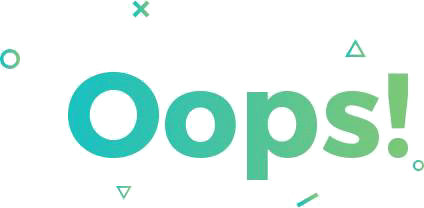
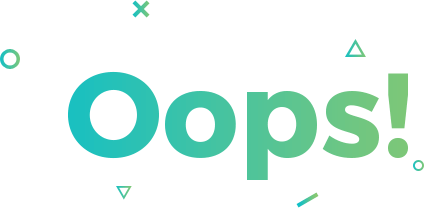
更新首页配置，更新webpack

diff --git a/docs/.vuepress/theme/components/Home.vue b/docs/.vuepress/theme/components/Home.vue
@@ -16,7 +16,7 @@
         alt="hero"
       />
 
-      <h1 v-if="data.isShowTitleInHome !== false">{{ data.heroText || $title || '午后南杂' }}</h1>
+      <h1 v-if="data.isShowTitleInHome !== false">{{ data.heroText || $title || '程禹铭' }}</h1>
 
       <p
         class="description"
@@ -98,7 +98,7 @@ export default {
     text-align: center;
 
     img {
-      background-color: $accentColor;
+      // background-color: $accentColor;
     }
 
     h1 {

diff --git a/docs/views/webpack/index.md b/docs/views/webpack/index.md
@@ -28,7 +28,7 @@ tags:
 
 - 让 `webpack` 正常启动需要最少需要两个 `npm` 包，`webpack、webpack-cli`
 
-### 一、entry 
+### 一、entry
 
 > webpack 是采用模块化的思想，所有的文件或者配置都是一个个的模块， 同时所有模块联系在一起，可以理解为就是一个简单的树状结构，那么最顶层的入口是什么呢？答案就是 `entry`， 所以， `webpack` 在执行构建的时候， 第一步就是找到入口，从入口开始，寻找，遍历，递归解析出所有入口依赖的模块。
 
@@ -53,7 +53,7 @@ tags:
   },
 ```
 
-### 二、output 
+### 二、output
 
 - `output` 是一个对象，里面包含一些列输出配置项
 - 常用的语法如下：
@@ -69,7 +69,7 @@ tags:
   },
 ```
 
-### 三、mode 
+### 三、mode
 
 > `webpack` 有三种 `mode`：`development`、`production`、`none`
 
@@ -95,7 +95,7 @@ module.exports = function(env, argv) {
 }
 ```
 
-### 四、module 
+### 四、module
 
 #### 配置 loader
 
@@ -192,7 +192,7 @@ module.exports = function(env, argv) {
 
 - `parse` 和 `noParse` 同级的属性，当然也可以嵌套到 `rules`，表示针对与某个 `loader` 应用到该属性的规则。
 - 目前只要明白 `parse` 属性，是用于声明哪些模块语法被解析，哪些不被解析即可。
-:::
+  :::
 
 #### 单个规则配置多个 loader， 语法需要使用 use， 如图
 
@@ -261,7 +261,7 @@ import moduleA from 'module-a' // module-a.js 在 ./src/components 目录下
 
 1. `descriptionFiles`：配置描述第三方模块的文件名称：默认是 `package.json`
 2. `enforceExtension`：配置后缀名是否必须加上
-:::
+   :::
 
 ### 六、plugin
 
@@ -270,7 +270,7 @@ import moduleA from 'module-a' // module-a.js 在 ./src/components 目录下
 - `plugins` 其实包括 `webpack` 本身自带的插件，也有开源的其他插件，都可以使用，它的作用就是解决 `loader` 之外的其他任何相关构建的事情。
 - `plugin` 的值是一个数组，可以传入多个插件实例，用法是直接 `new` 一个插件然后传入相应的配置即可
 - `plugin` 如何配置并不是难点，难点是我们需要清楚常用的一些插件分别解决了什么样的问题，以及这些插件的配置项
-:::
+  :::
 
 ```js
 plugins: [
@@ -423,6 +423,7 @@ module.exports = function(env, argv) {
 ### 四、hash、chunkHash 和 contentHash
 
 > 哈希一般是结合 `CDN` 缓存来使用的。 如果文件内容改变的话， 那么对应文件哈希值也会改变， 对应的 `HTML` 引用的 `URL` 地址也会改变， 触发 `CDN` 服务器从源服务器上拉取对应数据， 进而更新本地缓存。
+
 - hash： 计算是跟整个项目的构建相关，所有的文件都用一个 `hash`，一个文件发生改变，其他都会改变，`hash` 值是一个。
 - chunkHash：跟 `hash` 差不多。区别在与 `chunkHash` 所有公共库的代码文件都用一个 `hash`，公共库的代码用一个 `hash`，当我们更新普通模块内容的时候，其他模块的 `hash` 值发生改变，但是公共模块的 `hash` 不会受到影响
 
@@ -480,3 +481,92 @@ module.exports = {
   plugins: [require('autoprefixer')]
 }
 ```
+
+## webpack 小技巧
+
+### require.context
+
+- 在平时开发项目的时候，有时候需要引入的文件太多的时候，有什么好的方法解决嘛
+- 这时我们可以用 `require.context` 函数来创建我们要引入文件的 `context`
+- 该函数接受三个参数：要搜索的目录、是否搜索子目录、匹配文件的正则表达式
+
+```js
+// 语法如下
+require.context(directory, (useSubdirectories = false), (regExp = /^\.\//))
+```
+
+- 该方法返回一个 `require` 函数，返回函数可以接受一个参数：`request`（满足 `require.context` 传参的文件地址）
+- 返回函数拥有三个属性：`resolve、keys、id`
+  - `resolve` 是一个函数，它返回 `request` 被解析后得到的模块 `id`。
+  - `keys` 也是一个函数，返回一个数组，由所有可能被上下文模块处理的请求组成（满足 `require.context` 传参的文件相对路径，但是要是传入一个文件地址还是会报错，必须传入一个满足 `require.context` 传参的文件地址）
+  - `id` 是上下文模块里面所包含的模块 `id`。它可能在你使用 `module.hot.accept` 的时候被用到
+- 举一些例子一看便知
+
+### Vue 自动引入路由
+
+> 假如以下是 Vue 项目一段目录结构，我们每开发一个新的模块需要在 `modules` 下面要简历一个 路由配置文件，然后在 `index.html` 里面要一个个的引入，这样每次定义一个都需要引入一次，这时候我们可以利用 `require.context` 方法来处理路由文件
+
+```sh
+  ├── src
+  │   ├── views
+  │   ├── components
+  │   ├── routes
+  │   │   ├── modules
+  │   │   │   ├── user.js
+  │   │   │   ├── ...
+  │   │   │   └── other.js
+  │   │   └── index.js
+  │   └── App.vue
+  └── ...
+```
+
+代码如下
+
+```js
+  // 这段代码就写在，routes/index.js 里面吧
+  const requireAllRoute = require.context('./modules', false, /\.js$/)
+  // 让返回的这个函数执行，并传入相关的每一个文件的地址（由context.keys返回的）
+  const requireAll = context => context.keys().map(context)
+  // requireAll 执行完毕其实就得到了我们要的 modules 文件下的所有文件，但是我们是 default 里面的内容
+  const routes = requireAll(requireAllRoute).map(route => route.default)
+```
+
+### Vue 全局组件注册
+
+> 全局注册组件也是利用 `require.context` 来实现的，得到一个文件数组后，利用 `Vue.component` 注册一下即可 
+
+`假如有以下目录，components` 目录下的组件在全局都可通用
+```sh
+  ├── src
+  │   ├── views
+  │   ├── routes
+  │   ├── components
+  │   │   ├── user.vue
+  │   │   ├── ...
+  │   │   └── other.vue
+  │   ├── utils
+  │   │   └── global-register-conponents.js
+  │   └── App.vue
+  └── ...
+```
+
+代码如下：
+
+```js
+  // global-register-conponents.js
+  import Vue from 'vue'
+  const requireAllComponent = require.context('../components', false, /\.vue$/)
+  const requireAll = context => context.keys().map(context)
+  // 文件名字处理为大写
+  const dealName = name => name ? name.replace(/\w/, v => v.toUpperCase()) : ''
+  requireAll(requireAllComponent).forEach(componentModule => {
+    // 因为是 export default 导出的模块
+    const component = componentModule.default
+    // 文件所在的地址，我们要取到文件的名字，来定义文件的 name
+    const file = component.__file
+    // 如果有name属性直接取name属性，没有我们需要处理文件地址的最后一段作为文件的name，且要大写
+    const name = dealName(component.name) || dealName(file.slice(file.lastIndexOf('/') + 1, -4))
+    Vue.component(name, component)
+  })
+```
+

diff --git a/docs/README.md b/docs/README.md
@@ -4,7 +4,7 @@ heroImage: /imgs/oops.png
 heroImageStyle: {
   height: '160px',
   margin: '6rem auto 2rem',
-  background: '#fff',
+  background: 'transparent',
   borderRadius: '1rem',
 }
 isShowTitleInHome: false
